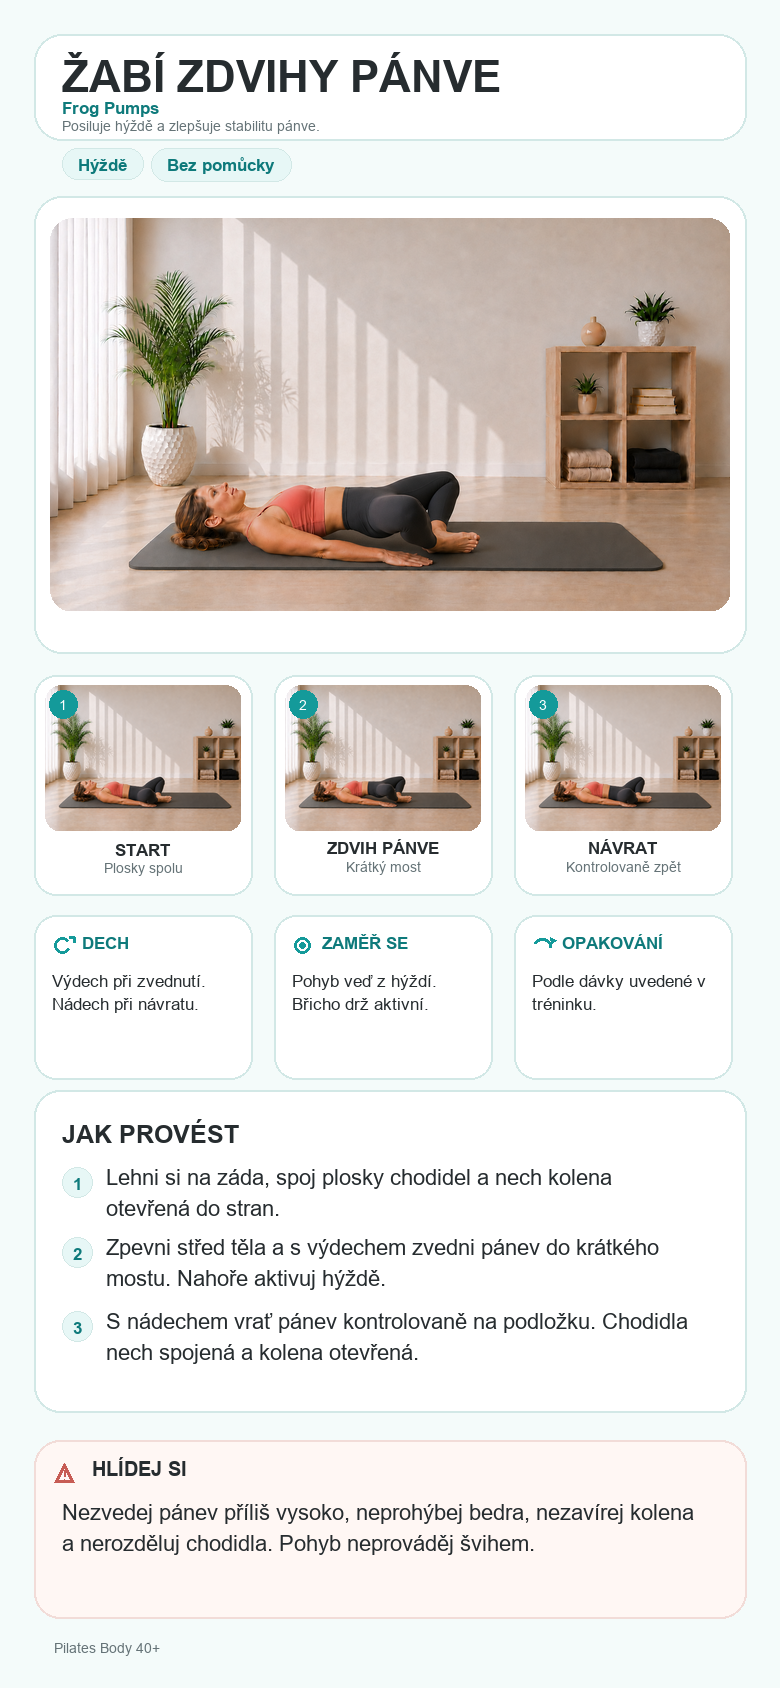
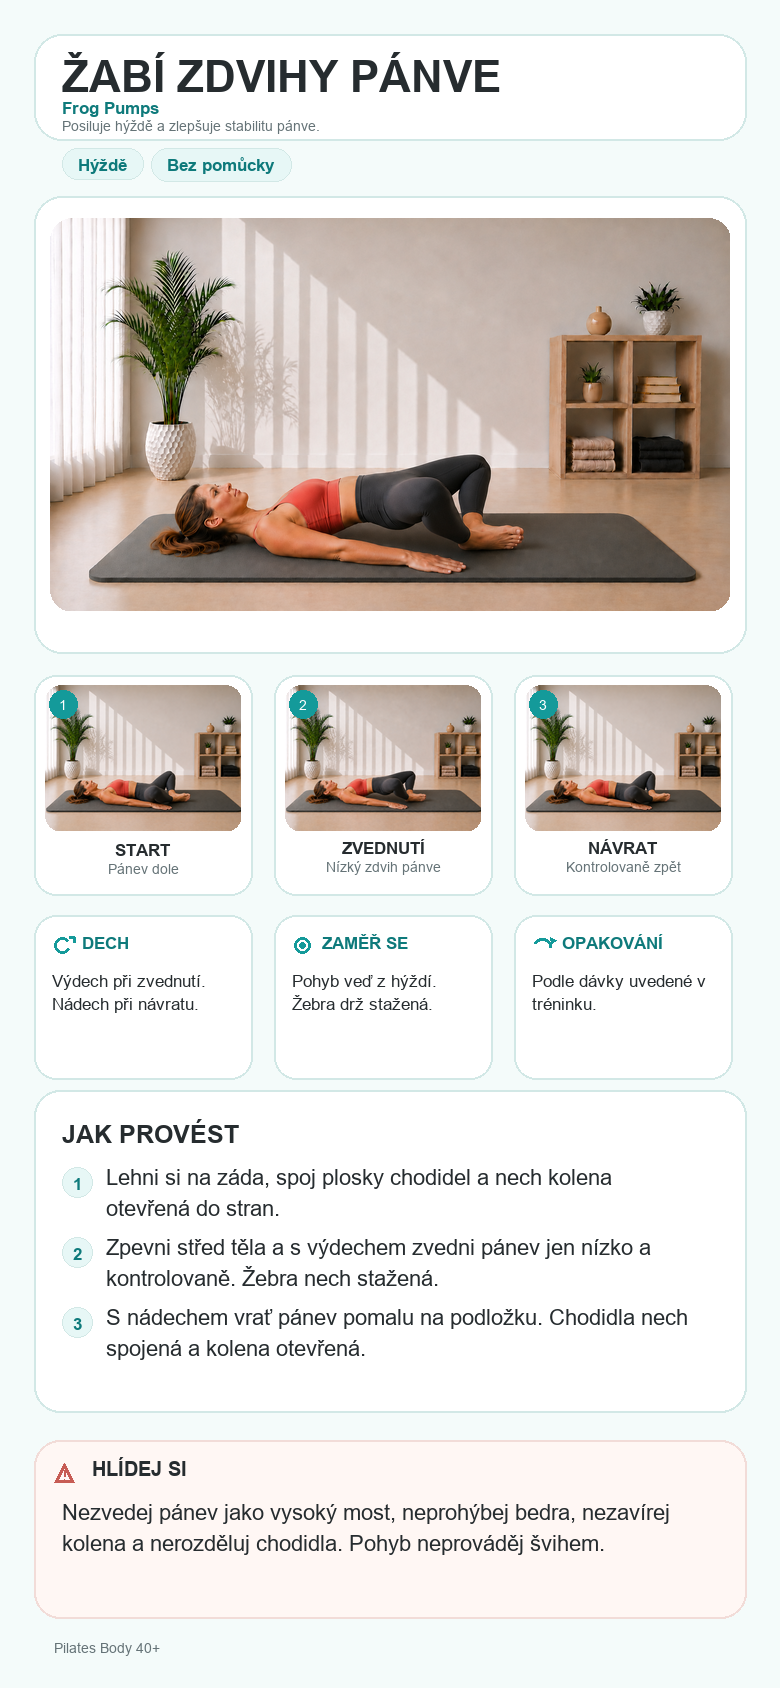
a

diff --git a/Pilates Assets/02_Exercise_Cards/Frog Pumps/build_frog_pumps_cards.py b/Pilates Assets/02_Exercise_Cards/Frog Pumps/build_frog_pumps_cards.py
@@ -6,13 +6,13 @@ from PIL import Image, ImageDraw, ImageFont, ImageOps
 
 
 BASE = Path(__file__).resolve().parent
-START = BASE / "frog_pumps_start_v01.png"
-HERO = BASE / "frog_pumps_hero_v01.png"
+START = BASE / "frog_pumps_start_v03.png"
+HERO = BASE / "frog_pumps_hero_v03.png"
 GUIDE = BASE / "frog_pumps_guide_card_v01.png"
 STEP = BASE / "frog_pumps_step_by_step_v01.png"
 EXPECTED_HASHES = {
[4 lines of base64/hex data omitted]
 }
 
 BG = (244, 251, 250)
@@ -30,39 +30,39 @@ FONT_DIR = Path(r"C:\Windows\Fonts")
 
 GUIDE_HOW = [
     ("1", "Lehni si na záda, spoj plosky chodidel a nech kolena otevřená do stran."),
-    ("2", "Zpevni střed těla a s výdechem zvedni pánev do krátkého mostu. Nahoře aktivuj hýždě."),
-    ("3", "S nádechem vrať pánev kontrolovaně na podložku. Chodidla nech spojená a kolena otevřená."),
+    ("2", "Zpevni střed těla a s výdechem zvedni pánev jen nízko a kontrolovaně. Žebra nech stažená."),
+    ("3", "S nádechem vrať pánev pomalu na podložku. Chodidla nech spojená a kolena otevřená."),
 ]
 
 GUIDE_WATCH = (
-    "Nezvedej pánev příliš vysoko, neprohýbej bedra, nezavírej kolena a nerozděluj chodidla. "
+    "Nezvedej pánev jako vysoký most, neprohýbej bedra, nezavírej kolena a nerozděluj chodidla. "
     "Pohyb neprováděj švihem."
 )
 
 STEP_TEXTS = [
     (
         "KROK 1",
-        "START",
+        "VÝCHOZÍ POLOHA",
         "Lehni si na záda, spoj plosky chodidel a nech kolena otevřená do stran.",
         START,
     ),
     (
         "KROK 2",
-        "ZDVIH PÁNVE",
-        "Zpevni střed těla a s výdechem zvedni pánev do krátkého mostu. Nahoře aktivuj hýždě.",
+        "ZVEDNUTÍ PÁNVE",
+        "Zpevni střed těla a s výdechem zvedni pánev pouze nízko a kontrolovaně. Žebra nech stažená.",
         HERO,
     ),
     (
         "KROK 3",
         "KONTROLOVANÝ NÁVRAT",
-        "S nádechem vrať pánev kontrolovaně na podložku. Chodidla nech spojená a kolena otevřená.",
+        "S nádechem vrať pánev pomalu a kontrolovaně na podložku. Chodidla nech spojená a kolena otevřená.",
         START,
     ),
 ]
 
 STEP_BREATH = "Výdech při zvednutí pánve. Nádech při návratu dolů."
 STEP_WATCH = (
-    "Neprohýbej bedra, nezavírej kolena ani nerozděluj chodidla. "
+    "Nezvedej pánev příliš vysoko, neprohýbej bedra, nezavírej kolena ani nerozděluj chodidla. "
     "Hlava, ramena a paže zůstávají uvolněné na podložce."
 )
 
@@ -224,8 +224,8 @@ def build_guide():
     mini_y, mini_w, mini_h, gap = 675, 218, 146, 22
     xs = [34, 34 + mini_w + gap, 34 + 2 * (mini_w + gap)]
     labels = [
-        ("START", "Plosky spolu", START),
-        ("ZDVIH PÁNVE", "Krátký most", HERO),
+        ("START", "Pánev dole", START),
+        ("ZVEDNUTÍ", "Nízký zdvih pánve", HERO),
         ("NÁVRAT", "Kontrolovaně zpět", START),
     ]
     for index, (x0, (label, caption, source)) in enumerate(zip(xs, labels), 1):
@@ -247,7 +247,7 @@ def build_guide():
     info_y, box_w, box_h = 915, 218, 164
     info = [
         ("breath", "DECH", "Výdech při zvednutí. Nádech při návratu."),
-        ("focus", "ZAMĚŘ SE", "Pohyb veď z hýždí. Břicho drž aktivní."),
+        ("focus", "ZAMĚŘ SE", "Pohyb veď z hýždí. Žebra drž stažená."),
         ("repeat", "OPAKOVÁNÍ", "Podle dávky uvedené v tréninku."),
     ]
     for index, (x0, (kind, heading, body)) in enumerate(zip(xs, info), 1):

diff --git a/Pilates Assets/02_Exercise_Cards/Frog Pumps/STATUS.md b/Pilates Assets/02_Exercise_Cards/Frog Pumps/STATUS.md
@@ -5,14 +5,14 @@ Status: HOTOVO
 ## Assets
 
 - EXERCISE_REFERENCE: není uložená v MASTER balíčku
-- START: frog_pumps_start_v01.png — SCHVÁLENO
-- HERO: frog_pumps_hero_v01.png — SCHVÁLENO
-- END: START / bez samostatného END PNG — SCHVÁLENO
-- GUIDE CARD: frog_pumps_guide_card_v01.png — SCHVÁLENO
-- STEP BY STEP: frog_pumps_step_by_step_v01.png — SCHVÁLENO
[2 lines of base64/hex data omitted]
+- END: přesně START v03 / bez samostatného END PNG — SCHVÁLENO
[2 lines of base64/hex data omitted]
 - EXPORT: SCHVÁLENO
 - QA: SCHVÁLENO
-- APP: NASAZENO
+- APP: beze změny v tomto úkolu
 
 ## Workflow
 
@@ -20,6 +20,4 @@ START → HERO → START
 
 ## Notes
 
-START a HERO jsou schválené source obrázky v rozměru 1536 × 1024 px. START zobrazuje pánev na podložce, HERO krátký zdvih pánve při spojených ploskách a otevřených kolenou. END používá START bez samostatného PNG. Guide Card a Step by Step v01 jsou manuálně schválené. Cvik je nasazený v aplikaci pod kanonickým ID `frog`.
-
-- Dynamická sekce Krok za krokem používá opravené globální zobrazení fotografií v přirozeném poměru stran; source a exportní PNG zůstaly beze změny.
+START a HERO byly nahrazeny ručně schválenými v03 source obrázky v rozměru 1536 × 1024 px. START zobrazuje pánev dole, spojené plosky chodidel a otevřená kolena. HERO zobrazuje nízké kontrolované zvednutí pánve při stažených žebrech a bez vysokého klasického mostu. END používá přesně START v03 bez samostatného PNG. Guide Card a Step by Step v01 byly přegenerovány ze sekvence START → HERO → START. Aplikační soubory, program, dávky ani workout logika nebyly v tomto úkolu měněny.
